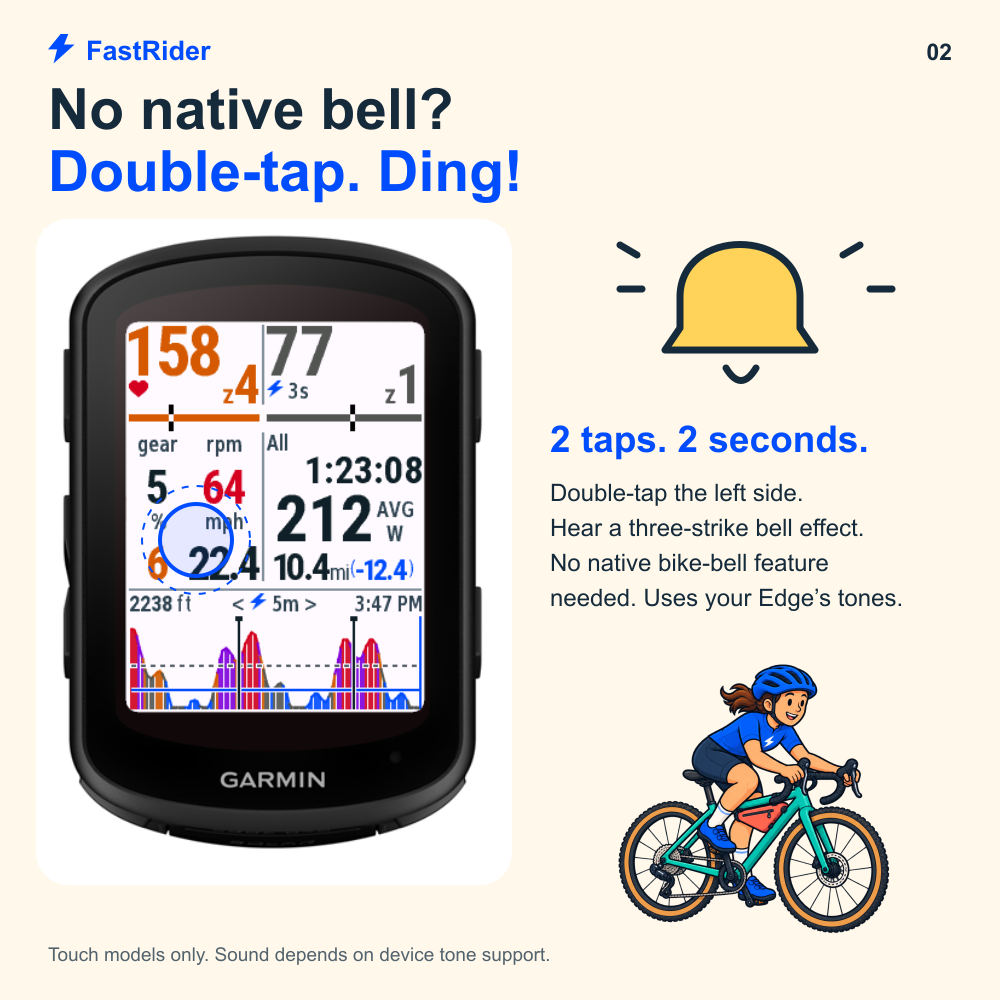
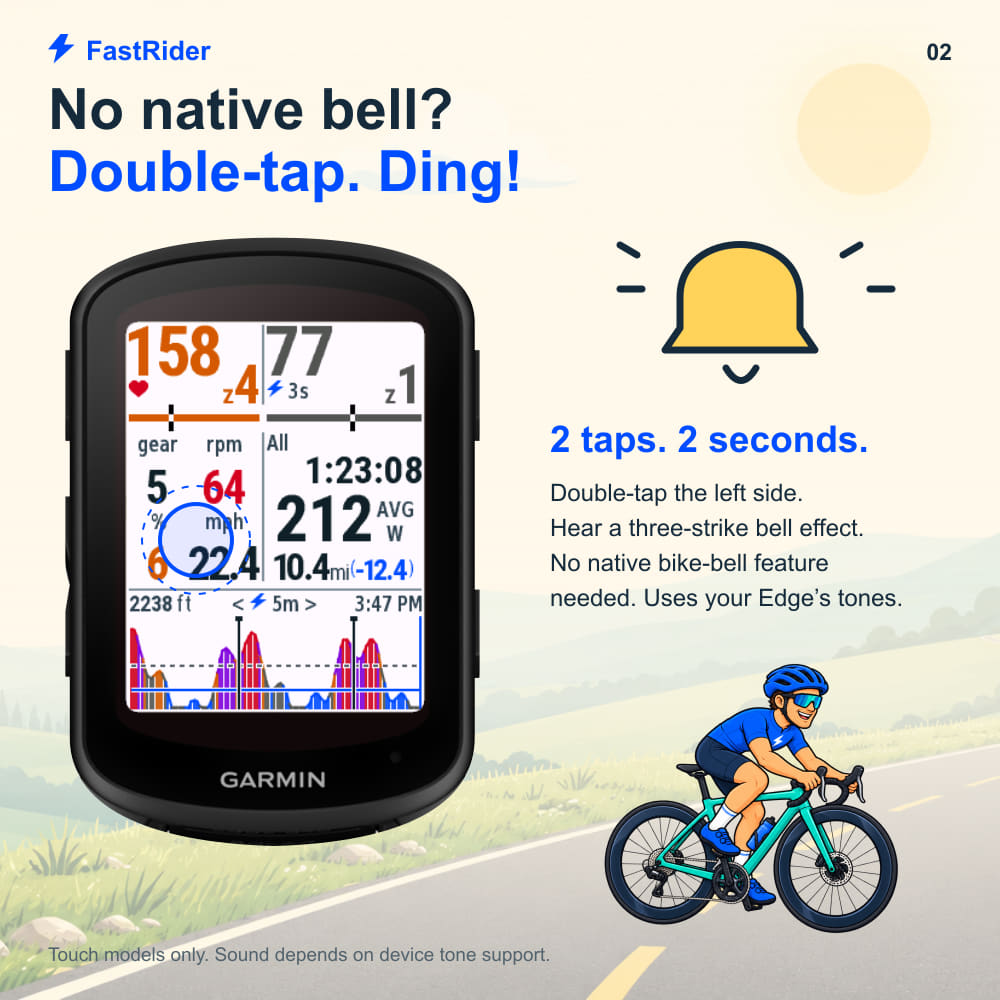
Refresh store campaign with road cyclist and prepare listing review

diff --git a/store/campaign/v0.4.1/index.html b/store/campaign/v0.4.1/index.html
@@ -1,6 +1,6 @@
 <!doctype html><html lang="zh-CN"><meta charset="utf-8"><meta name="viewport" content="width=device-width,initial-scale=1"><title>FastRider · Connect IQ Store Kit</title><style>body{margin:0;background:#fff8eb;color:#152b3b;font:16px/1.6 Arial,sans-serif}main{max-width:1160px;margin:auto;padding:40px 28px}h1{font-size:40px;line-height:1.2;color:#004cff}h2{margin-top:44px}a{color:#004cff}table{border-collapse:collapse;width:100%;background:white}td,th{padding:12px 16px;border-bottom:1px solid #dde1e5;text-align:left;vertical-align:top}pre{white-space:pre-wrap;background:white;padding:22px;border-radius:18px;line-height:1.65;font:15px/1.65 Arial,sans-serif}.grid{display:grid;grid-template-columns:repeat(2,minmax(0,1fr));gap:22px}.grid img{display:block;width:100%;border-radius:20px}figure{margin:0}figcaption{font-size:14px;margin:8px 4px 20px}.hero{width:100%;border-radius:22px}.icons{display:flex;align-items:center;gap:24px;background:white;padding:24px;border-radius:22px}.icons img{max-width:240px;max-height:240px}.notice{padding:20px;border-left:5px solid #d05a00;background:#fff1df;border-radius:10px}.small{font-size:14px}@media(max-width:750px){.grid{grid-template-columns:1fr}main{padding:24px 16px}h1{font-size:30px}.icons{flex-wrap:wrap}}</style><main>
-<h1>FastRider · Store Kit 0.4.1</h1><p>按网页逐项填写。视频留空。所有图片均已检查尺寸、sRGB和文件大小；点击图片打开原文件。</p><p><a href="README.md">完整中文填写说明</a> · <a href="copy/description-en.txt">复制英文介绍</a> · <a href="copy/whats-new-en.txt">复制更新说明</a></p>
-<a href="upload/01-hero-en.png"><img class="hero" src="upload/01-hero-en.png" alt="FastRider hero"></a>
+<h1>FastRider · Store Kit 0.4.1 · Road edition</h1><p>按网页逐项填写。视频留空。所有图片均已检查尺寸、sRGB和文件大小；点击图片打开原文件。</p><p><a href="README.md">完整中文填写说明</a> · <a href="copy/description-en.txt">复制英文介绍</a> · <a href="copy/whats-new-en.txt">复制更新说明</a></p>
+<a href="upload/01-hero-en.png"><img class="hero" src="upload/01-hero-en.png?v=3" alt="FastRider hero"></a>
 <h2>表单选择</h2><table><tr><th>Field</th><th>Value</th></tr>
 <tr><td>Title</td><td>FastRider – Ride in Color</td></tr>
 <tr><td>Category</td><td>Cycling</td></tr>
@@ -19,7 +19,7 @@
 </table>
 <h2>英文介绍</h2><pre>Power, heart rate, lap stats and your ride essentials — on one screen!
 
-FastRider turns your Garmin Edge into a clear, colorful cycling dashboard. Big numbers, useful training guides and a friendly touch bell keep the essentials close, whether you ride gravel, road or the indoor trainer.
+FastRider turns your Garmin Edge into a clear, colorful cycling dashboard. Big numbers, useful training guides and a friendly touch bell keep the essentials close, whether you ride on the road, explore new routes or train indoors.
 
 YOUR RIDE, COLOR CODED
 Power and heart rate use bold zone colors, with a moving mark showing where you are inside the current zone. Cadence and gradient have their own color alerts. Power uses the same colors in the live number and graph: blue for Z2, orange for Z4, purple for Z5, red for Z6/Z7, and gray for Z1/Z3. Spot a change in effort at a glance.
@@ -63,17 +63,17 @@ Privacy: https://github.com/zhilichen/garmin-fast-rider/blob/main/PRIVACY.md
 Units: mi / mph / ft. Screenshots show synthetic example data.
 </pre>
 <h2>Cover &amp; Icons</h2><div class="icons">
-<figure><a href="upload/02-cover-500.png"><img src="upload/02-cover-500.png" alt="02-cover-500.png"></a><figcaption>02-cover-500.png</figcaption></figure>
-<figure><a href="upload/03-device-icon-24-bit.png"><img src="upload/03-device-icon-24-bit.png" alt="03-device-icon-24-bit.png"></a><figcaption>03-device-icon-24-bit.png</figcaption></figure>
-<figure><a href="upload/03-device-icon-64-color.png"><img src="upload/03-device-icon-64-color.png" alt="03-device-icon-64-color.png"></a><figcaption>03-device-icon-64-color.png</figcaption></figure>
+<figure><a href="upload/02-cover-500.png"><img src="upload/02-cover-500.png?v=3" alt="02-cover-500.png"></a><figcaption>02-cover-500.png</figcaption></figure>
+<figure><a href="upload/03-device-icon-24-bit.png"><img src="upload/03-device-icon-24-bit.png?v=3" alt="03-device-icon-24-bit.png"></a><figcaption>03-device-icon-24-bit.png</figcaption></figure>
+<figure><a href="upload/03-device-icon-64-color.png"><img src="upload/03-device-icon-64-color.png?v=3" alt="03-device-icon-64-color.png"></a><figcaption>03-device-icon-64-color.png</figcaption></figure>
 </div>
-<h2>Screen Images · 按编号上传</h2><div class="grid">
-<figure><a href="upload/04-screen-01-one-screen.jpg"><img src="upload/04-screen-01-one-screen.jpg" alt="04-screen-01-one-screen.jpg"></a><figcaption>04-screen-01-one-screen.jpg · 136904 bytes</figcaption></figure>
-<figure><a href="upload/04-screen-02-touch-bell.jpg"><img src="upload/04-screen-02-touch-bell.jpg" alt="04-screen-02-touch-bell.jpg"></a><figcaption>04-screen-02-touch-bell.jpg · 144399 bytes</figcaption></figure>
-<figure><a href="upload/04-screen-03-z2-training.jpg"><img src="upload/04-screen-03-z2-training.jpg" alt="04-screen-03-z2-training.jpg"></a><figcaption>04-screen-03-z2-training.jpg · 139385 bytes</figcaption></figure>
-<figure><a href="upload/04-screen-04-threshold-intervals.jpg"><img src="upload/04-screen-04-threshold-intervals.jpg" alt="04-screen-04-threshold-intervals.jpg"></a><figcaption>04-screen-04-threshold-intervals.jpg · 142328 bytes</figcaption></figure>
-<figure><a href="upload/04-screen-05-color-coded.jpg"><img src="upload/04-screen-05-color-coded.jpg" alt="04-screen-05-color-coded.jpg"></a><figcaption>04-screen-05-color-coded.jpg · 141600 bytes</figcaption></figure>
-<figure><a href="upload/04-screen-06-tap-controls.jpg"><img src="upload/04-screen-06-tap-controls.jpg" alt="04-screen-06-tap-controls.jpg"></a><figcaption>04-screen-06-tap-controls.jpg · 144902 bytes</figcaption></figure>
+<h2>Screen Images · 网页限5张，06为备用</h2><div class="grid">
+<figure><a href="upload/04-screen-01-one-screen.jpg"><img src="upload/04-screen-01-one-screen.jpg?v=3" alt="04-screen-01-one-screen.jpg"></a><figcaption>04-screen-01-one-screen.jpg · 148467 bytes</figcaption></figure>
+<figure><a href="upload/04-screen-02-touch-bell.jpg"><img src="upload/04-screen-02-touch-bell.jpg?v=3" alt="04-screen-02-touch-bell.jpg"></a><figcaption>04-screen-02-touch-bell.jpg · 139362 bytes</figcaption></figure>
+<figure><a href="upload/04-screen-03-z2-training.jpg"><img src="upload/04-screen-03-z2-training.jpg?v=3" alt="04-screen-03-z2-training.jpg"></a><figcaption>04-screen-03-z2-training.jpg · 135943 bytes</figcaption></figure>
+<figure><a href="upload/04-screen-04-threshold-intervals.jpg"><img src="upload/04-screen-04-threshold-intervals.jpg?v=3" alt="04-screen-04-threshold-intervals.jpg"></a><figcaption>04-screen-04-threshold-intervals.jpg · 140395 bytes</figcaption></figure>
+<figure><a href="upload/04-screen-05-color-coded.jpg"><img src="upload/04-screen-05-color-coded.jpg?v=3" alt="04-screen-05-color-coded.jpg"></a><figcaption>04-screen-05-color-coded.jpg · 137980 bytes</figcaption></figure>
+<figure><a href="upload/04-screen-06-tap-controls.jpg"><img src="upload/04-screen-06-tap-controls.jpg?v=3" alt="04-screen-06-tap-controls.jpg"></a><figcaption>04-screen-06-tap-controls.jpg · 148475 bytes</figcaption></figure>
 </div>
 <h2>提交前的签名状态</h2><div class="notice">本地 manifest.sig2 验证为 Verified OK；当前网页仍显示 Signature check failed。请确认网页的签名问题解决后再自行提交。此素材包不表示审核已经提交或通过。</div>
 <p class="small">原始界面为实际840原生模拟器输出，示例数据为合成数据。训练示意条独立于设备截图。卡通素材由内置imagegen生成，提示词见PROMPTS.json；设备外观及Garmin商标权归Garmin所有。</p></main></html>

diff --git a/store/campaign/v0.4.1/render.py b/store/campaign/v0.4.1/render.py
@@ -24,22 +24,29 @@ def lines(items,x,y,size=26,leading=38,fill=NAVY,bold=False):return ''.join(text
 def title(a,b):return text(a,48,129,57,NAVY,True)+text(b,48,191,57,BLUE,True)
 def bolt(x,y,scale=1,color=BLUE):return f'<path d="M18 0 0 22h13L8 42l30-27H23L29 0Z" fill="{color}" transform="translate({x},{y}) scale({scale})"/>'
 def chip(s,x,y,w,fill=BLUE,txt='white',size=20):return rect(x,y,w,42,fill,21)+text(s,x+w/2,y+28,size,txt,True,'middle')
-def rider(x,y,w):return image(BASE/'source/gravel-rider.png',x,y,w,w*2/3)
+def rider(x,y,w):return image(BASE/'source/road-rider.png',x,y,w,w*2/3)
 def ui_file(name='default'):
  paths={'default':ROOT/'docs/validation/screens/edge840.png','controls':ROOT/'docs/validation/edge840/10s-lap-20m.png','whole':ROOT/'docs/validation/edge840/3s-all-all.png','z2':BASE/'source/edge840-z2.png','threshold':BASE/'source/edge840-threshold.png'}
  return paths[name]
 def device(x,y,w,name='default'):
  # Skin screen opening is 246x322 at (69,78), exactly matching the native field.
- return f'<svg x="{x}" y="{y}" width="{w}" height="{w*518/382}" viewBox="0 0 382 518">'+image(ui_file(name),69,78,246,322)+image(SKIN,0,0,382,518)+'</svg>'
+ # Clip only the native skin's exterior white canvas. Hardware and screen pixels
+ # remain the original SDK/capture images; the screen opening keeps its alpha.
+ outline='M191 8 C101 8 23 27 22 78 L22 101 H18.5 V176 H22 V222 H18.5 V284 L22 295 L18.5 317 V371 H22 V421 C22 478 84 508 191 511 C298 508 357 477 357 421 V372 H361 V299 H357 V176 H361 V101 H357 V78 C357 27 281 8 191 8 Z'
+ return f'<svg x="{x}" y="{y}" width="{w}" height="{w*518/382}" viewBox="0 0 382 518"><defs><clipPath id="device-outline"><path d="{outline}"/></clipPath></defs><g clip-path="url(#device-outline)">'+image(ui_file(name),69,78,246,322)+image(SKIN,0,0,382,518)+'</g></svg>'
 def head(n):return bolt(48,34,.7)+text('FastRider',86,60,27,BLUE,True)+text(f'{n:02d}',952,60,23,NAVY,True,'end')
 def footer(s='Edge 840 shown. Synthetic example data.'):
  return text(s,48,961,19,'#53636D')
 def svg(body,w=1000,h=1000):
- return f'<svg xmlns="http://www.w3.org/2000/svg" width="{w}" height="{h}" viewBox="0 0 {w} {h}">'+rect(0,0,w,h,CREAM,0)+body+'</svg>'
+ landscape=BASE/'source/road-landscape.png'
+ # A quiet cream fade protects headings; hills and a road add depth at the base.
+ scene=f'<image href="{uri(landscape)}" x="0" y="0" width="{w}" height="{h}" preserveAspectRatio="xMidYMid slice"/>'
+ fade='<defs><linearGradient id="scene-fade" x1="0" y1="0" x2="0" y2="1"><stop offset="0" stop-color="#FFF8EB" stop-opacity="0.18"/><stop offset="0.7" stop-color="#FFF8EB" stop-opacity="0.25"/><stop offset="1" stop-color="#FFF8EB" stop-opacity="0.05"/></linearGradient></defs>' if w>h else '<defs><linearGradient id="scene-fade" x1="0" y1="0" x2="0" y2="1"><stop offset="0" stop-color="#FFF8EB" stop-opacity="0.65"/><stop offset="0.7" stop-color="#FFF8EB" stop-opacity="0.86"/><stop offset="1" stop-color="#FFF8EB" stop-opacity="0.45"/></linearGradient></defs>'
+ return f'<svg xmlns="http://www.w3.org/2000/svg" width="{w}" height="{h}" viewBox="0 0 {w} {h}">'+rect(0,0,w,h,CREAM,0)+scene+fade+rect(0,0,w,h,'url(#scene-fade)',0)+body+'</svg>'
 def save(name,body,w=1000,h=1000):
  p=OUT/(name+'.svg');p.write_text(svg(body,w,h));return {'name':name,'svg':str(p),'width':w,'height':h}
 def card_body(n,a,b,name='default'):
- return head(n)+title(a,b)+rect(36,219,476,666,'white',32)+device(43,228,462,name)
+ return head(n)+title(a,b)+device(43,228,462,name)
 def note(heading,body,x,y,w=394,tint='white',accent=BLUE):
  return rect(x,y,w,133,tint,24)+text(heading,x+24,y+39,23,accent,True)+lines(body,x+24,y+77,23,32)
 
@@ -48,9 +55,9 @@ def main():
  hero=bolt(64,54,1.15)+text('FastRider',119,93,48,BLUE,True)
  hero+=text('Your ride.',64,200,80,NAVY,True)+text('One screen.',64,286,80,BLUE,True)
  hero+=lines(['Power. Heart rate. Lap stats.','The essentials, together.'],68,338,27,36)
- hero+=chip('COLOR-CODED EFFORT',66,437,300)+chip('TOUCH BELL',66,494,226,TEAL)+chip('Z2 + THRESHOLD',66,551,270,ORANGE)
+ hero+=chip('COLOR-CODED EFFORT',66,437,300)+chip('TOUCH BELL',66,494,226,TEAL)+chip('Power Graph',66,551,240,ORANGE)
  hero+=rider(355,296,630)
- hero+=rect(978,34,410,652,'white',34)+device(989,55,390,'threshold' if ui_file('threshold').exists() else 'default')+text('Edge 840 • sample data',1183,643,19,'#53636D',False,'middle')
+ hero+=device(989,55,390,'threshold' if ui_file('threshold').exists() else 'default')+rect(1063,619,240,38,CREAM,19)+text('Edge 840 • sample data',1183,644,19,'#53636D',False,'middle')
  jobs.append(save('01-hero-en',hero,1440,720))
  b=card_body(1,'Your key numbers.','One screen.')
  b+=note('POWER + HEART RATE',['Big numbers. Bold zones.'],550,243)

diff --git a/store/campaign/v0.4.1/README.md b/store/campaign/v0.4.1/README.md
@@ -1,6 +1,6 @@
 # FastRider 商店发布素材 · v0.4.1
 
-英文标题、介绍和更新说明均可直接复制；视频不需要填写。所有上传图片位于 `upload/`，已按本次实际网页表单的尺寸与文件上限导出。素材采用轻快卡通骑手、gravel bike、蓝色闪电和奶油白背景；设备展示为真实 Edge 840 外观与未经重画的原生界面截图。
+英文标题、介绍和更新说明均可直接复制；视频不需要填写。所有上传图片位于 `upload/`，已按本次实际网页表单的尺寸与文件上限导出。公路骑行版素材采用戴骑行太阳镜的男性卡通骑手、公路赛车、蓝色闪电，以及阳光、丘陵和铺装公路背景。设备展示为真实 Edge 840 外观与未经重画的原生界面截图；外侧白底通过矢量轮廓裁切移除，让设备融入场景。
 
 ## 表单填写对照
 
@@ -22,7 +22,7 @@
 | Add Icons for App Store on Device? | Yes | 两个128×128文件 |
 | Device 64 Color | `03-device-icon-64-color.png` | 固定Garmin RGB立方体色板，每个通道仅0/85/170/255，最多64色 |
 | Device 24 bit Color | `03-device-icon-24-bit.png` | 128×128、24位sRGB PNG |
-| Screen Images | `04-screen-01…06` | 六张1000×1000 JPG，每张小于150KB；按文件编号选择 |
+| Screen Images | `04-screen-01…06` | 六张1000×1000 JPG，每张小于150KB；网页最多接收五张，上传01至05，06留作备用 |
 | Preview Video | 留空 | 本轮不制作视频 |
 | Activity Types | Cycling | 可同时选择全部骑行子类，包括Gravel/Unpaved、Road、Indoor、Virtual、MTB等；不选非骑行大类 |
 | Email Address | **由你填入愿意公开的支持邮箱** | 网页会公开展示；素材包不代填个人邮箱 |
@@ -37,7 +37,7 @@
 
 | 文件 | 用途与主标题 |
 | --- | --- |
-| 01-hero-en.png | Your ride. One screen. / Color-coded effort / Touch bell / Z2 + threshold |
+| 01-hero-en.png | Your ride. One screen. / Color-coded effort / Touch bell / Power Graph |
 | 02-cover-500.png | 列表封面：无文字的卡通骑手头像 |
 | 03-device-icon-64-color.png | 低色数设备商店图标 |
 | 03-device-icon-24-bit.png | 全彩设备商店图标 |
@@ -48,7 +48,7 @@
 | 04-screen-05-color-coded.jpg | Less decoding. More riding. |
 | 04-screen-06-tap-controls.jpg | Tap. Switch. Keep rolling. |
 
-首批发布优先展示一屏信息、车铃、Z2与阈值训练，后两张补充完整配色和点击交互。Z2与阈值卡已使用专用合成输入在原生840模拟器重新导出：180W/FTP250W稳态Z2，以及245W阈值段与恢复段交替的3×20分钟示例（第三段进行中）。实际渲染代码未改动，仅隔离的示例数据不同。右侧训练条为独立编辑示意。六张均为功能介绍图；若网页的图片数量上限不足，可省去后两张，核心功能已经覆盖。可另外从 `docs/validation/screens/` 选取原生尺寸的纯截图；本素材中的设备展示已经包含840实机外形。
+首批发布优先展示一屏信息、车铃、Z2与阈值训练，后两张补充完整配色和点击交互。Z2与阈值卡已使用专用合成输入在原生840模拟器重新导出：180W/FTP250W稳态Z2，以及245W阈值段与恢复段交替的3×20分钟示例（第三段进行中）。实际渲染代码未改动，仅隔离的示例数据不同。右侧训练条为独立编辑示意。六张均为功能介绍图。实际上传时确认网页最多接收五张，因此表单使用01至05；06点击切换图作为备用，点击操作也已在英文正文说明。可另外从 `docs/validation/screens/` 选取原生尺寸的纯截图；本素材中的设备展示已经包含840实机外形。
 
 英文文案没有将所有数字都宣称为按Zone变色：实际支持功率、心率、踏频和坡度配色。车铃明确为触屏机型上的两秒电子提示音组合，非Garmin原生车铃，音色与响度取决于硬件。Z2蓝色、Z4橘色与生产代码一致。训练内容是示例，不将字段描述为训练计划执行器。
 
@@ -63,12 +63,12 @@
 
 本地已使用IQ内的`dev_key.pub`对原始`manifest.xml`与`manifest.sig2`执行OpenSSL SHA256签名验证，结果为`Verified OK`。当前网页却仍显示`Signature check failed.`。这两个结果均如实记录；本地验证不能证明Garmin服务端已接受签名，也没有通过重签／替换密钥来绕过错误。提交前请在网页重新选择Downloads内同名IQ并确认状态；若错误仍存在，需要继续检查Garmin的上传校验，不要将“Status: Verified”单独理解为签名通过。
 
-你自行上传并提交。本轮不提交审核、不接受开发者协议，也不填入公开联系邮箱。
+公路骑行版已按用户要求填入Connect IQ表单：英文标题／介绍／更新说明、Hero、封面、两种图标、五张功能图、Cycling及其他发布选项，并使用用户明确指定的公开支持邮箱。邮箱不写入本公开仓库。尚未点击Submit，等待用户确认；点击该按钮也会接受Garmin开发者协议。重新上传同一正式IQ后，签名错误提示仍存在。
 
 ## 再生成与来源
 
 在仓库根目录运行 `python3 store/campaign/v0.4.1/render.py`。需要Node.js、sharp及本机Edge840设备包；可通过`NODE`、`NODE_PATH`、`CIQ_DEVICE_HOME`指定安装位置。脚本只负责SVG文字／版式排版和最终尺寸、色板、压缩导出，不修改应用或原生截图。`prepare-snapshots.py`可重新准备两种训练示例的隔离源码，按其输出jungle文件用官方monkeyc编译并在840模拟器导出即可；示例程序不进入IQ或安装包。
 
-骑手和封面图由内置imagegen生成；提示词见[PROMPTS.json](PROMPTS.json)。所有正文、图形文案均可在render.py或copy/中修改。封面／图标不含Garmin商标；设备外形来自本机官方SDK模拟器皮肤，原生截图来自仓库验收资料。Garmin设备外观与商标权归Garmin所有，代码MIT许可不授予其商标权。硬件皮肤没有作为独立资源复制进仓库。
+骑手、封面和景观背景由内置imagegen生成；提示词见[PROMPTS.json](PROMPTS.json)。所有正文、图形文案均可在render.py或copy/中修改。封面／图标不含Garmin商标；设备外形来自本机官方SDK模拟器皮肤，原生截图来自仓库验收资料。设备只在SVG排版时裁切外侧白底，没有生成或重画机身与界面。Garmin设备外观与商标权归Garmin所有，代码MIT许可不授予其商标权。硬件皮肤没有作为独立资源复制进仓库。
 
 尺寸和品牌依据：[Garmin官方Connect IQ设计指南](https://developer.garmin.com/brand-guidelines/connect-iq/)。文件大小及Screen Images上限来自2026-10-24实际上传表单。
